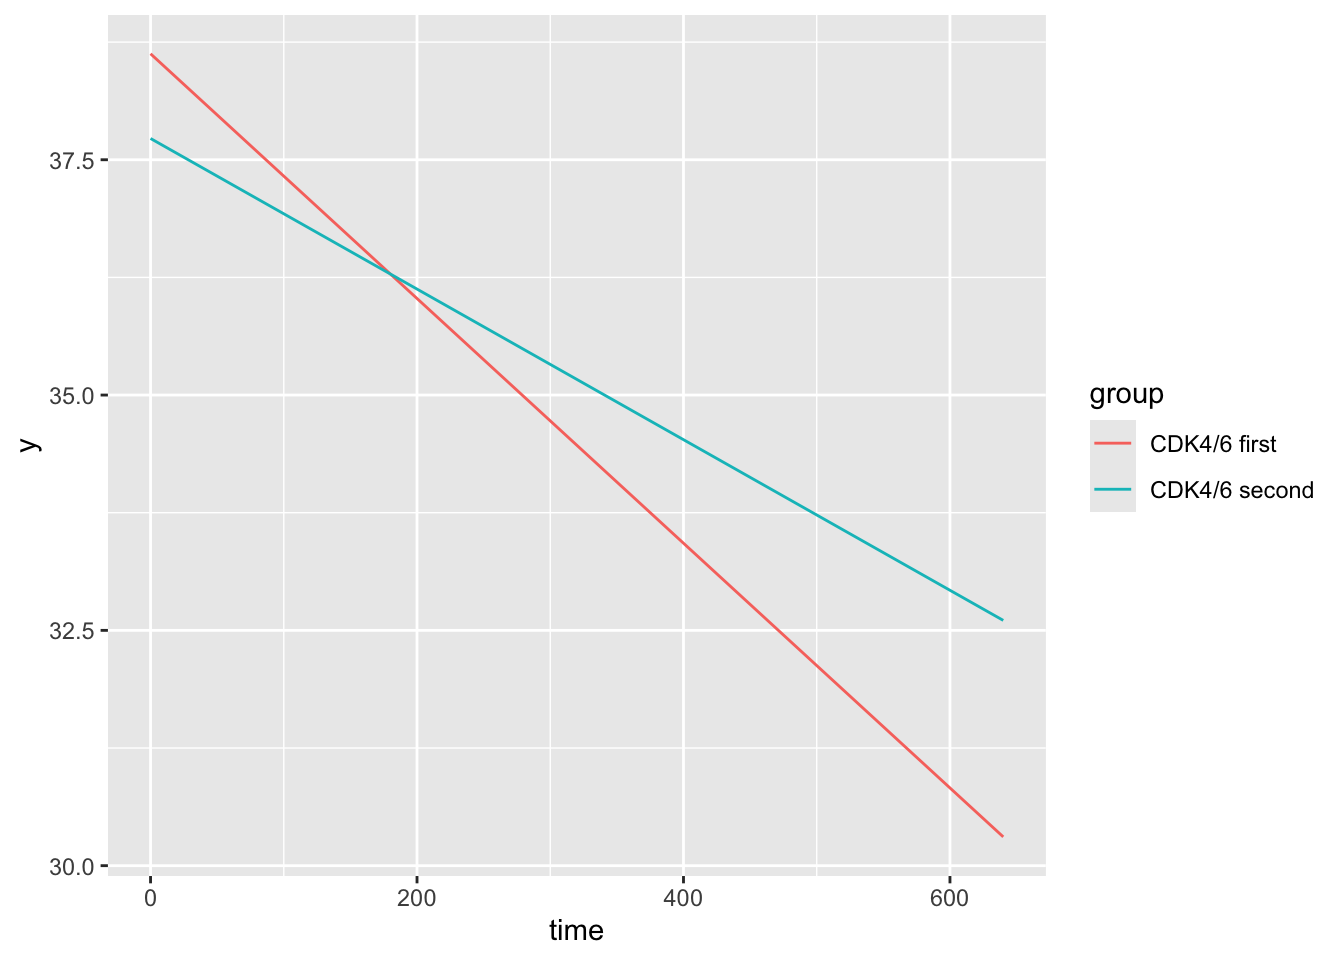
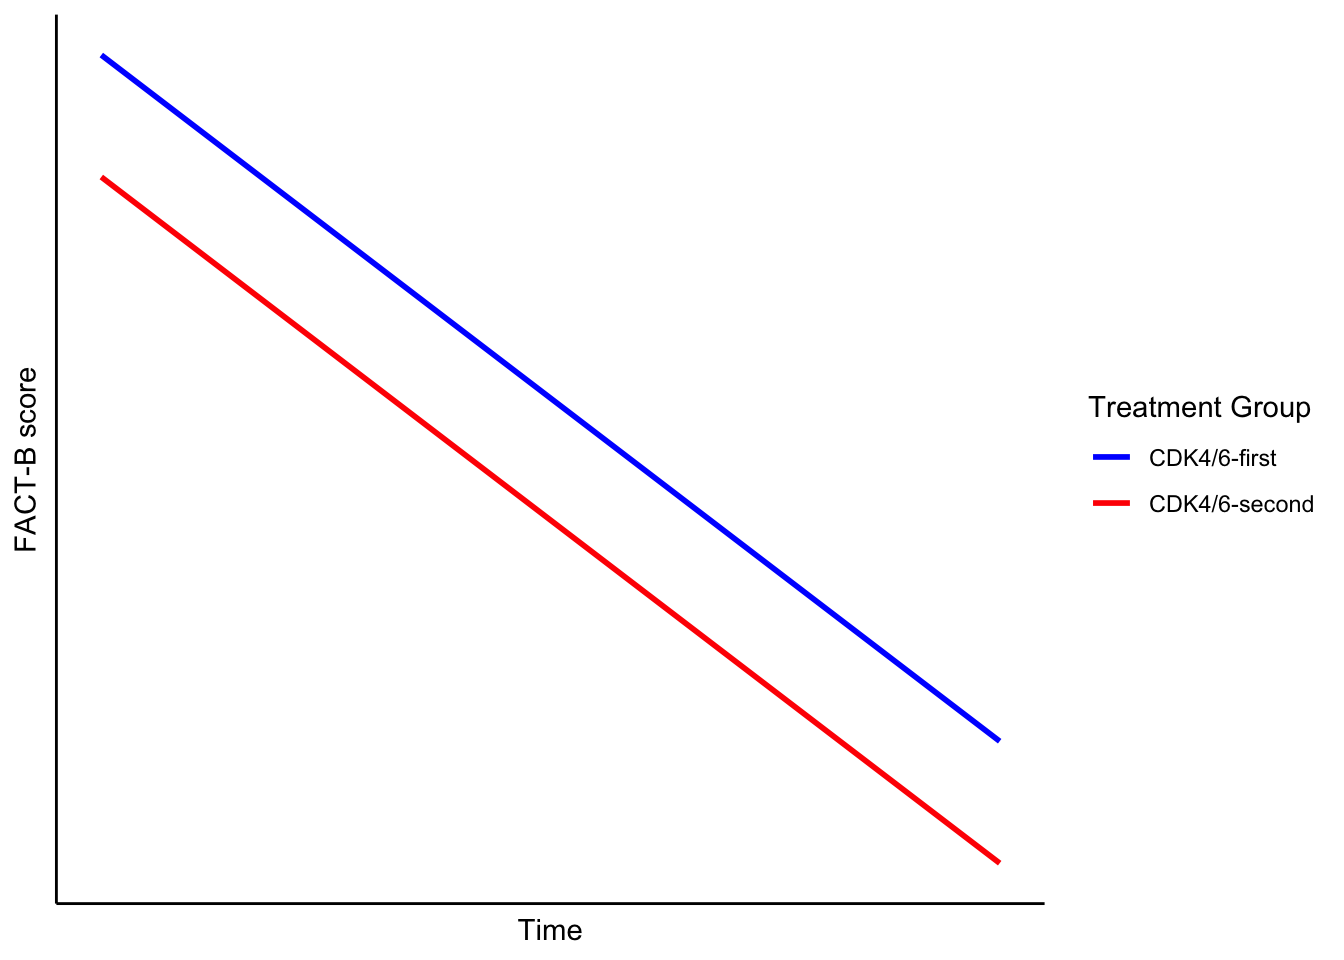
sonia trial plots

diff --git a/content/post/sonia_trial/index.html b/content/post/sonia_trial/index.html
@@ -1,13 +1,13 @@
 ---
 title: "Missed Opportunity? Rethinking Quality of Life Analysis in the SONIA Trial"
 author: Me
-date: '25. Jun 2025'
+date: '26. Jun 2025'
 slug: sonia_trial
 categories:
   - reporting
 tags: [reporting]
 subtitle: ''
-summary: 'To add summary'
+summary: 'The SONIA trial made headlines by challenging a major assumption in breast cancer care: that drugs like CDK4/6 inhibitors must be used right away in advanced HR+/HER2– breast cancer. The study found no significant difference in survival between using these drugs early or later. It even showed that later use led to fewer side effects and lower costs. But not everything was so straightforward.'
 authors: []
 lastmod: '2025-12-20T14:27:06Z'
 featured: no
@@ -21,71 +21,46 @@ draft: TRUE
 
 
 
-<p>The <a href="https://www.nature.com/articles/s41586-024-08035-2">SONIA trial</a> made headlines by challenging a major assumption in breast cancer care: that powerful drugs like CDK4/6 inhibitors must be used right away in advanced HR+/HER2– breast cancer. The study found <strong>no significant difference in survival</strong> between using these drugs early or later. It even showed that later use led to fewer side effects and lower costs.</p>
+<p>The <a href="https://www.nature.com/articles/s41586-024-08035-2">SONIA trial</a> shook up conventional thinking about advanced breast cancer treatment. For years, the standard approach was to start CDK4/6 inhibitors—powerful but costly and often toxic drugs—right away in HR+/HER2– metastatic breast cancer. SONIA tested that assumption.</p>
+<p>In a large randomized trial, patients were assigned to either receive a CDK4/6 inhibitor up front (early group) or only after first-line hormonal therapy failed (delayed group). The results? <em>No difference in overall survival</em>. Delaying treatment didn’t worsen outcomes—and actually came with fewer side effects and lower costs.</p>
 <p>But there’s one area where the results are … less satisfying.</p>
-<p>The authors reported <strong>no difference in health-related quality of life (HRQOL)</strong> between the early and delayed treatment groups, based on the widely used FACT-B questionnaire. At first glance, this seems reassuring—patients felt just as good either way.</p>
-<p>But let’s look a little closer.</p>
+<p>The authors reported <em>no difference in health-related quality of life (HRQOL)</em> between the early and delayed treatment groups, based on the widely used FACT-B questionnaire. At first glance, this seems reassuring—patients felt just as good/bad either way.</p>
+<p>But a closer look raises questions about what was being measured—and whether the tools used fully captured the patient experience.</p>
+<p><img src="{{< blogdown/postref >}}index_files/figure-html/unnamed-chunk-2-1.png" width="672" /></p>
 <div id="the-hrqol-analysis-was-likely-too-simple" class="section level2">
 <h2>The HRQOL Analysis Was Likely Too Simple</h2>
 <p>The authors used a main effects model to compare the FACT-B scores over time. This approach makes two key assumptions:</p>
 <ol style="list-style-type: decimal">
-<li>The only difference between the groups is a constant shift—i.e., one group is consistently better or worse than the other across time.
+<li>The only difference between the treatment groups is a constant shift—i.e., one group is consistently better or worse than the other across time.
 <ul>
-<li>In their model, the coefficient for the “CDK4/6i-second” group was −0.91, implying a minor, consistent shift.</li>
+<li>In their model, the coefficient for the “CDK4/6-second” group was −0.91, implying a minor, consistent shift.</li>
 </ul></li>
 <li>FACT-B scores change linearly over time.</li>
 </ol>
 <p>Both assumptions are strong—and likely inadequate.</p>
-<pre class="r"><code>intercept &lt;- 37.950
-arm_second_group &lt;- -0.91
-time_coef &lt;- -0.008
-FACTB_baseline &lt;- 0.676
-
-time &lt;- seq(0, 640, by = 10)
-first_group &lt;- intercept + (time_coef * time) + FACTB_baseline
-second_group &lt;- first_group + arm_second_group
-
-original_df &lt;- data.frame(y = c(first_group, second_group),
-                          group = c(rep(&quot;CDK4/6 first&quot;, length(time)), rep(&quot;CDK4/6 second&quot;, length(time))),
-                          time = time)</code></pre>
-<pre class="r"><code>ggplot(original_df) +
-   geom_line(aes(y = y, x = time, colour = group))</code></pre>
-<p><img src="{{< blogdown/postref >}}index_files/figure-html/unnamed-chunk-3-1.png" width="672" /></p>
+<p><img src="{{< blogdown/postref >}}index_files/figure-html/unnamed-chunk-4-1.png" width="672" /></p>
 </div>
 <div id="a-better-way-to-ask-the-question" class="section level2">
 <h2>A Better Way to Ask the Question</h2>
-<p>Instead of asking, “Were average quality of life scores different across time?”, why not ask a more patient-centered question:</p>
+<p>Instead of asking, “Were average quality of life scores different across time?”, why not ask a more patient-centered question?</p>
 <div id="hypothesis-1" class="section level3">
 <h3><strong>Hypothesis 1</strong></h3>
 <p><em>Patients who start CDK4/6 inhibitors earlier (first-line group) experience a <strong>faster decline</strong> in quality of life compared to those who start them later.</em></p>
-<p>Why might this be true? Because the first-line group had more severe side effects—more than 1,000 additional grade 3+ events than the second-line group. It’s logical to expect this would show up in how patients feel over time.</p>
+<p>Why might this be true? Because the first-line group had more severe side effects—more than 1,000 additional grade 3+ events than the second-line group. It’s logical to expect this would show up in their quality of life assessments.</p>
 <p>Testing this hypothesis means including an interaction between time and treatment group. This would allow the slopes of the two groups’ HRQOL trajectories to differ.</p>
-<p>Visually, this would look like one group’s curve dropping faster than the other.</p>
-<pre class="r"><code>interaction_coeff &lt;- -0.005
-arm_second_group &lt;- -0.9
-main &lt;- intercept + (time_coef * time) + FACTB_baseline
-first_group_int &lt;- main + (interaction_coeff*time)
-second_group_int &lt;- main + arm_second_group
-
-
-hyp1_df &lt;- data.frame(y = c(first_group_int, second_group_int),
-                          group = c(rep(&quot;CDK4/6 first&quot;, length(time)), 
-                                    rep(&quot;CDK4/6 second&quot;, length(time))),
-                          time = time)
-
-ggplot(hyp1_df) +
-   geom_line(aes(y = y, x = time, colour = group))</code></pre>
-<p><img src="{{< blogdown/postref >}}index_files/figure-html/unnamed-chunk-4-1.png" width="672" /></p>
+<p>Visually, this would look like one group’s line dropping faster than the other.</p>
+<p><img src="{{< blogdown/postref >}}index_files/figure-html/unnamed-chunk-5-1.png" width="672" /></p>
 </div>
 <div id="hypothesis-2" class="section level3">
 <h3><strong>Hypothesis 2</strong></h3>
-<p><em>Even if the average scores at the end are the same, the <strong>shapes of the trajectories</strong> might differ—non-linear patterns, dips, or recoveries.</em></p>
+<p><em>Even if the average scores at the end are the same, the shapes of the trajectories might differ—non-linear patterns.</em></p>
 <p>Here, we’re relaxing the idea that quality of life changes in a neat, straight line. Real life (and real cancer treatment) is rarely linear. Patients often experience early/late toxicity, and plateaus. A model assuming straight-line change might completely miss that.</p>
-<p>Pictorially, this might show two wavy lines crossing or diverging—even if they end at the same place.</p>
+<p>Pictorially, this might show two lines crossing or diverging—even if they end at the same place.</p>
+<p><img src="{{< blogdown/postref >}}index_files/figure-html/unnamed-chunk-6-1.png" width="672" /></p>
 </div>
 </div>
 <div id="why-this-matters" class="section level2">
 <h2>Why This Matters</h2>
-<p>These more flexible, hypothesis-driven approaches might <strong>better capture what patients actually experience</strong>.</p>
-<p>The SONIA trial is important, but its quality of life analysis could have gone further. With the right modeling, we might learn even more about <strong>how and when treatment side effects truly impact patients’ lives</strong>.</p>
+<p>The SONIA trial is important, but its quality of life analysis could have gone further. With the right modeling, we might learn even more about how and when treatment side effects truly impact patients’ lives.</p>
+<p>A more flexible, hypothesis-driven approach might have better captured what patients actually experienced.</p>
 </div>
